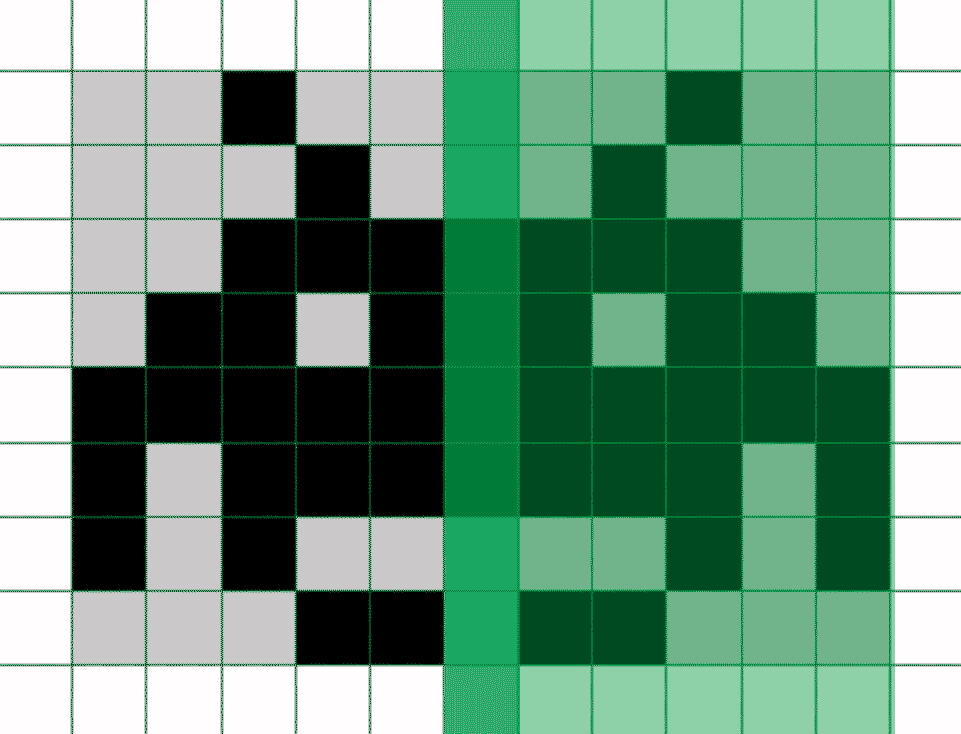
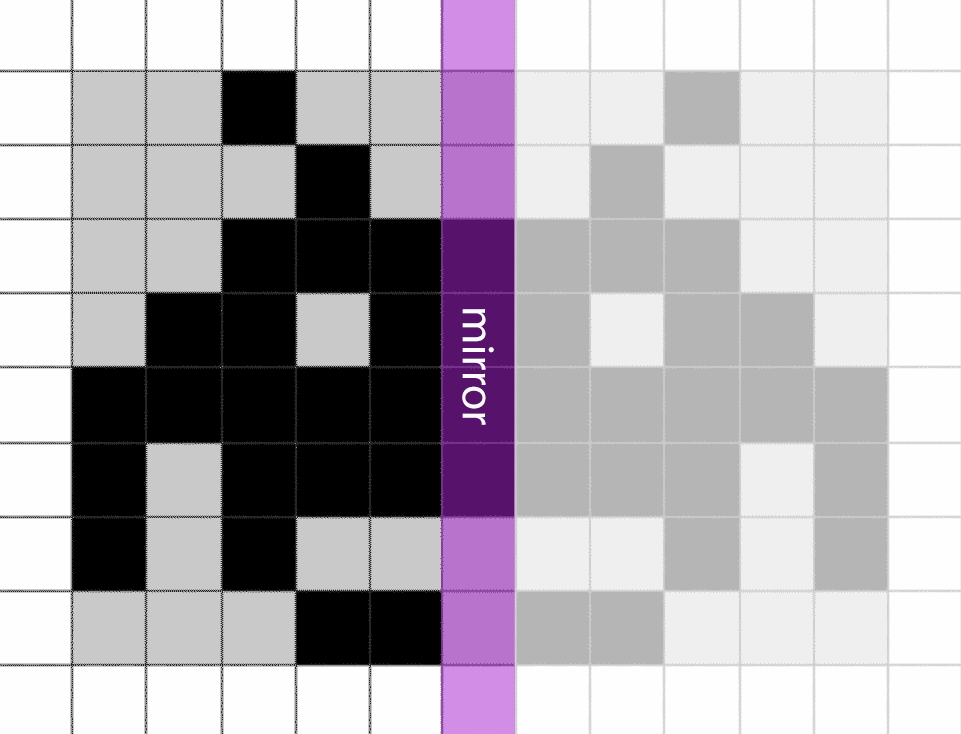
Fixed issues with the algorithm

diff --git a/blog/content/posts/em-binary-encoding-decoding-part1.md b/blog/content/posts/em-binary-encoding-decoding-part1.md
@@ -1,22 +1,22 @@
 ---
 title: "JS Extreme Minification: Binary Char Encoding - Part 1"
 date: 2019-09-05T22:13:30+01:00
-draft: true
+draft: false
 tags: ["Extreme Minification", "Development", "Code Calisthenics"]
 categories: ["Development"]
 ---
 
-In this post I discuss in detail how I implemented the binary char encoding in JS and the various optimisation steps I took to minimise the final encoding map.
+This post documents the process of binary char encoding that was used for the js1k space invaders project.
 
 <!--more-->
 
-In my [previous post]({{< ref "/posts/em-encoding-shapes.md" >}}) I discussed how I decided to implement a binary char map to encode the game character shapes to be drawn later using `canvas.fillRect`.
+In my [previous post]({{< ref "/posts/em-encoding-shapes.md" >}}) I discussed why binary char encoding was chosen to draw character shapes in the game and how it benefits from `canvas.fillRect` which we already have available to us in the `js1k` shim.
 
-Taking `space invaders` alien as an example, it is hopefully quite straightforward to see that it lends itself quite nicely to be drawn as a series of black and white squares arranged in a grid pattern.
+Using `space invaders` alien as an example for this post, it can be seen that the alien shape can be drawn as a series of black and white sqaures in a 11x8 grid.
 
 {{% figure src="/img/alien_flat.png#center" width="50%"%}}
 
-Using monochrome colour pallete, the grid can be then represented using a series of 1's and 0's. 1 being black square and 0 being a white. Using this algorithm, we end up with something like:
+When using a monochrome colour pallete, the grid can be then represented using a series of 1's and 0's. 1 being black square and 0 being a white.
 
 ```
 00100000100 // pink
@@ -28,87 +28,93 @@ Using monochrome colour pallete, the grid can be then represented using a series
 00011011000
 ```
 
-which can then be put into a long string and encoded within the JS file.
+Information from the grid can be serialised into a single binary char string that contains the information about colour and position for each pixel in the character shape.
 
 ```
 00100000100000100010000011111110001101110110111111111111010000010100011011000
 ```
 
-To decode and draw the shape, we will simply need to run a nested loop. The outer loop will draw rows while the inner loop will draw the columns.
+To decode and draw the shape, we will simply need to run a nested loop. The outer loop will draw rows while the inner loop will draw the columns while the value of each char in the binary string will either paint a black square or a white square.
 
-In pseudo code the algorithm to draw the shape would be:
 
 {{< highlight js >}}
-for (row=0; row <= 6; row++)
-  for (col=0; col <= 10; col++)
-    if characterAt(row, col) === 1
-      drawBlackSquare(x, y)
-    else
-      drawWhiteSquare(x, y)
+  const bitChars = '00100000100000100010000011111110001101110110111111111111010000010100011011000';
+  const sf = 6; //scaling factor;
+
+  for (let row = 0; row <= 6; row++) {
+    for (let col = 0; col <= 10; col++) {
+      const bit = bitChars.charAt(row * 11 + col);
+
+      if (bit === '1') {
+          context.fillRect(col * sf, row * sf, sf, sf);
+      }
+    }
+  }
 {{< /highlight >}}
 
-It can be seen above that the alien encoded in binary chars is about **77 bytes**. We need 2 different alien shapes so that's about **~150 bytes** plus maybe another **50 bytes** for the ship and about **10 bytes** for the ship and the starts. So we are looking at **~220 bytes** in total.
+In the example above, the alien encoded in binary chars is about **77 bytes**. We need 2 different alien shapes for the game so that's about **~150 bytes** plus maybe another **60 bytes** for the ship and add about another **10 bytes** for the bullet and the starts. So we are looking at **~220 bytes** in total.
 
-This is already better than the solutions discussed in the [previous post]({{< ref "/posts/em-encoding-shapes.md" >}}) so we are definitely on the right track here.
+This is already looking better than the solutions discussed in the [previous post]({{< ref "/posts/em-encoding-shapes.md" >}}) so we are probably on the right track here.
 
-However, we must optimise it still to achieve the 1,024 byte goal.
+However, we must optimise it still to achieve the **1,024 byte** goal.
 
 ### Optimisation 1: Mirroring
 
-One benefit of the `space invader` esque alien shapes is that they are symmetrical along the y-axis. I assume the devs back in the day had similar challenges when it came to storage space and available memory as my js1k project does so they intentionally chose shapes that could be mirrored.
+One benefit of the `space invader` esque alien shapes is that they are symmetrical along the y-axis. I assume the space invader devs back in the day had similar challenges to my js1k project where they were constained by available memory, processing power and storage space.
 
-That's primarily because such shapes can be defined using only half the information and then mirrored about an axis to draw the other half.
+Mirroring would allow us to define only half the shape of the alien in the binary char string and we can draw the other half using the same information but in reverse.
 
 {{% figure src="/img/alien_half.png#center" width="50%"%}}
 
-But this approach will not work with how we are parsing and rendering our bitmap using the algorithm above. Because the algorithm renders row by row starting from the top whereas our shape is mirrored across the y-axis.
+However this approach will not work with how we are parsing and rendering our binary char map because the algorithm above renders row by row starting from the top whereas our shape is mirrored about the y-axis.
 
-So we will need to encode and render columnwise.
+To make this work, we will need to encode and parse the shape column wise.
 
 ### Optimisation 2: Going Sideways
 
-instead of encoding row by row, this step requires us to encode column by column. So:
+To help keep the algorithm simple and easy to understand, I have rotated the shape counter-clockwise for this step but essentially it is the same shape.
 
 {{% figure src="/img/alien_sideways.png#center" width="50%"%}}
 
 ```
-00001110 // pink
-00011000 // blue
-10111110 // green
-01101101 // etc.
-00111101
 00111100
+00111101
+01101101 // etc.
+10111110 // green
+00011000 // blue
+00001110 // pink
 ```
 
-This can be represented as binary char string:
+The binary char map above serialises to binary char string as follows:
 
 ```
-000011100001100010111110011011010011110100111100
+001111000011110101101101101111100001100000001110
 ```
 
-The sequence is now **48 bytes** down from **77 bytes** that is a reduction of about **37%** so we should expect all shapes to take about **~139 bytes** altogether. :+1:
-
-Now when we parse and draw, we can mirror the shape after column 5.
+Minor changes have been made to parse and render the map to make it read and render column first.
 
 {{< highlight js >}}
-for (col=0; col <= 5; col++)
-  for (row=0; row <= 8; row++)
-    if characterAt(row, col) === 1
-      drawBlackSquare(x, y)
-    else
-      drawWhiteSquare(x, y)
+const bitChars = '001111000011110101101101101111100001100000001110';
+const sf = 6; //scaling factor;
 
-// keeping x and y form previous step, run in reverse to mirror
+for (var col = 0; col <= 10; col++) {
+  for (var row = 0; row <= 7; row++) {
+    const bit = bitChars.charAt(Math.abs(5-col) * 8 + row);
 
-for (col=4; col >= 0; col--)
-  for (row=0; row <= 8; row++)
-    if characterAt(row, col) === 1
-      drawBlackSquare(x, y)
-    else
-      drawWhiteSquare(x, y)
+    if (bit === '1') {
+      c.fillRect(col * sf, row * sf, sf, sf);
+    }
+  }
+}
 {{< /highlight >}}
 
-The algorithm to parse and render does become a bit more complex but we will tackle it a bit later.
+One thing to note in the algorithm above is how simple it was to mirror the columns in code. The instruction `5-col` - where 5 is the column about which we mirror - will take the column count into negative space e.g. 5,4,3,2,1,0,-1,-2,-3,-4,-5 but that is corrected easily using `Math.abs`.
+
+The simplicity of mirroring in terms of code is also a big positive for this approach.
+
+The binary sequence is now only **48 bytes** down from **77 bytes** which is a reduction of about **37%**. We should expect all shapes to take about **~139 bytes** altogether. :+1:
+
+At 139 bytes it is probably not too bad already but there's a few more ways we can optimise it further. I will be discussing those in another post in detail.
 
 ***To be continued ...***
 
